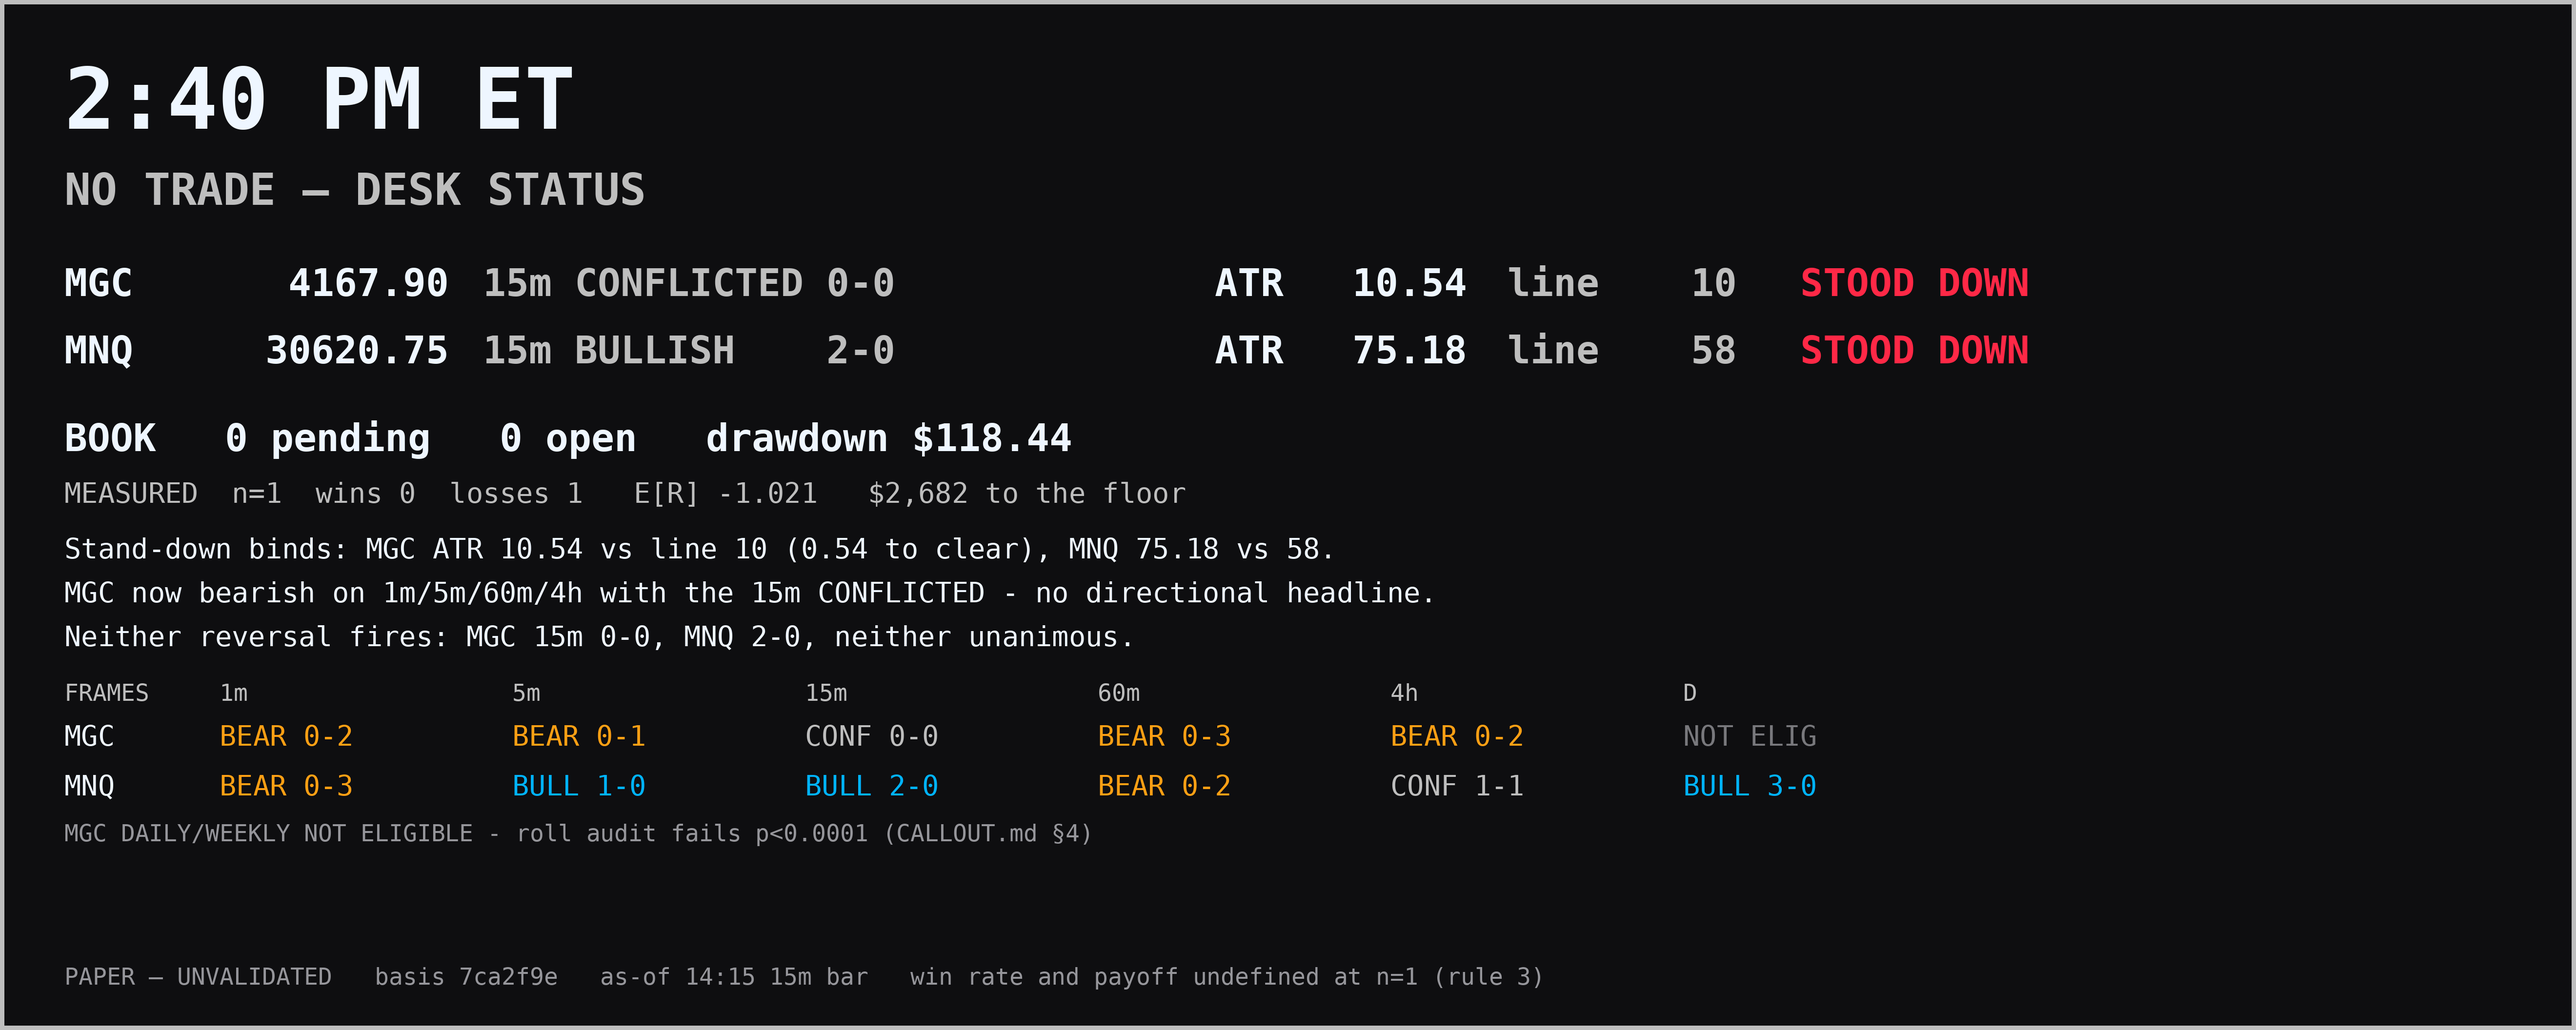
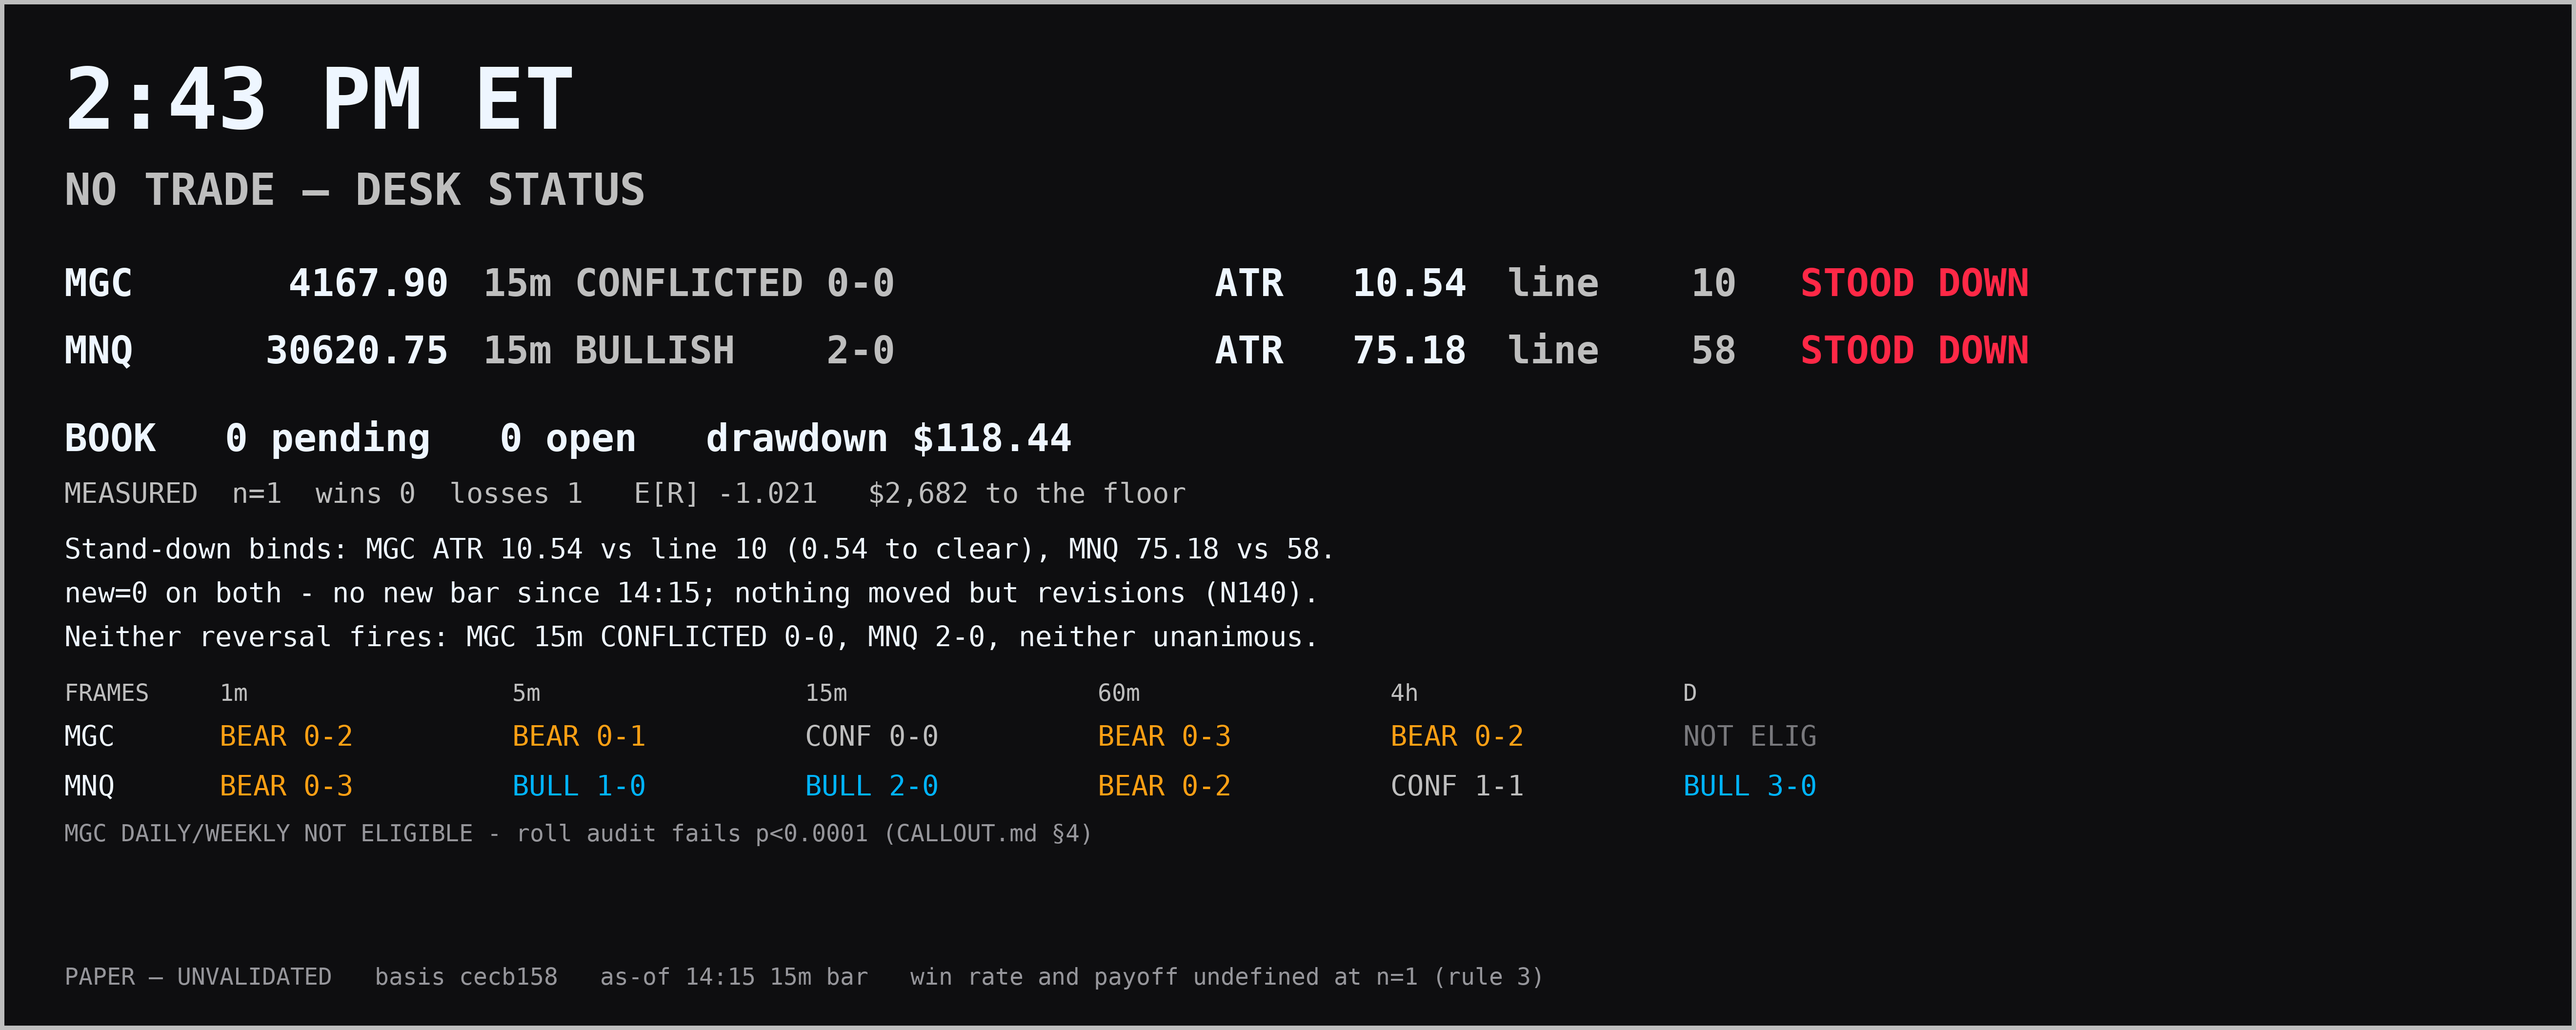
CALL desk: 14:42 - newest real bar 5m 14:30, lag 12.6m, new=0 on both; nothing triggered or resolved; cards now sent LAST in the response per the owner's instruction
Claude-Session: https://claude.ai/code/session_01EE6PFk7fGa2tM4KP6dpfWD

Changed region(s): [[0.0312, 0.5625, 0.5625, 0.625], [0.0625, 0.0625, 0.0938, 0.125], [0.1875, 0.9375, 0.2188, 0.9688]]

diff --git a/workspace/paper/CALL/CHECK_PROCEDURE.md b/workspace/paper/CALL/CHECK_PROCEDURE.md
@@ -841,6 +841,11 @@ headline with its tally, ATR against its stand-down line, book state, the measur
 the binding reason in words, and the seven-frame table. MGC's DAILY cell prints `NOT ELIG`
 rather than a headline, because CALLOUT.md §4 forbids using that series.
 
+**ORDER: the card goes LAST, at the bottom of the response.** Owner's instruction,
+2026-09-28 14:42. Write the text report first, then send the card as the final act of the
+check, so the thing he actually reads is the last thing on his screen rather than buried
+above a wall of text he is scrolling past.
+
 **The text report still goes in the terminal and the notes still go in `NOTES.md`** — they are
 the record and the record matters. But they are not the delivery. **If a check ends without a
 card having been sent, the check did not report, whatever was written.**
